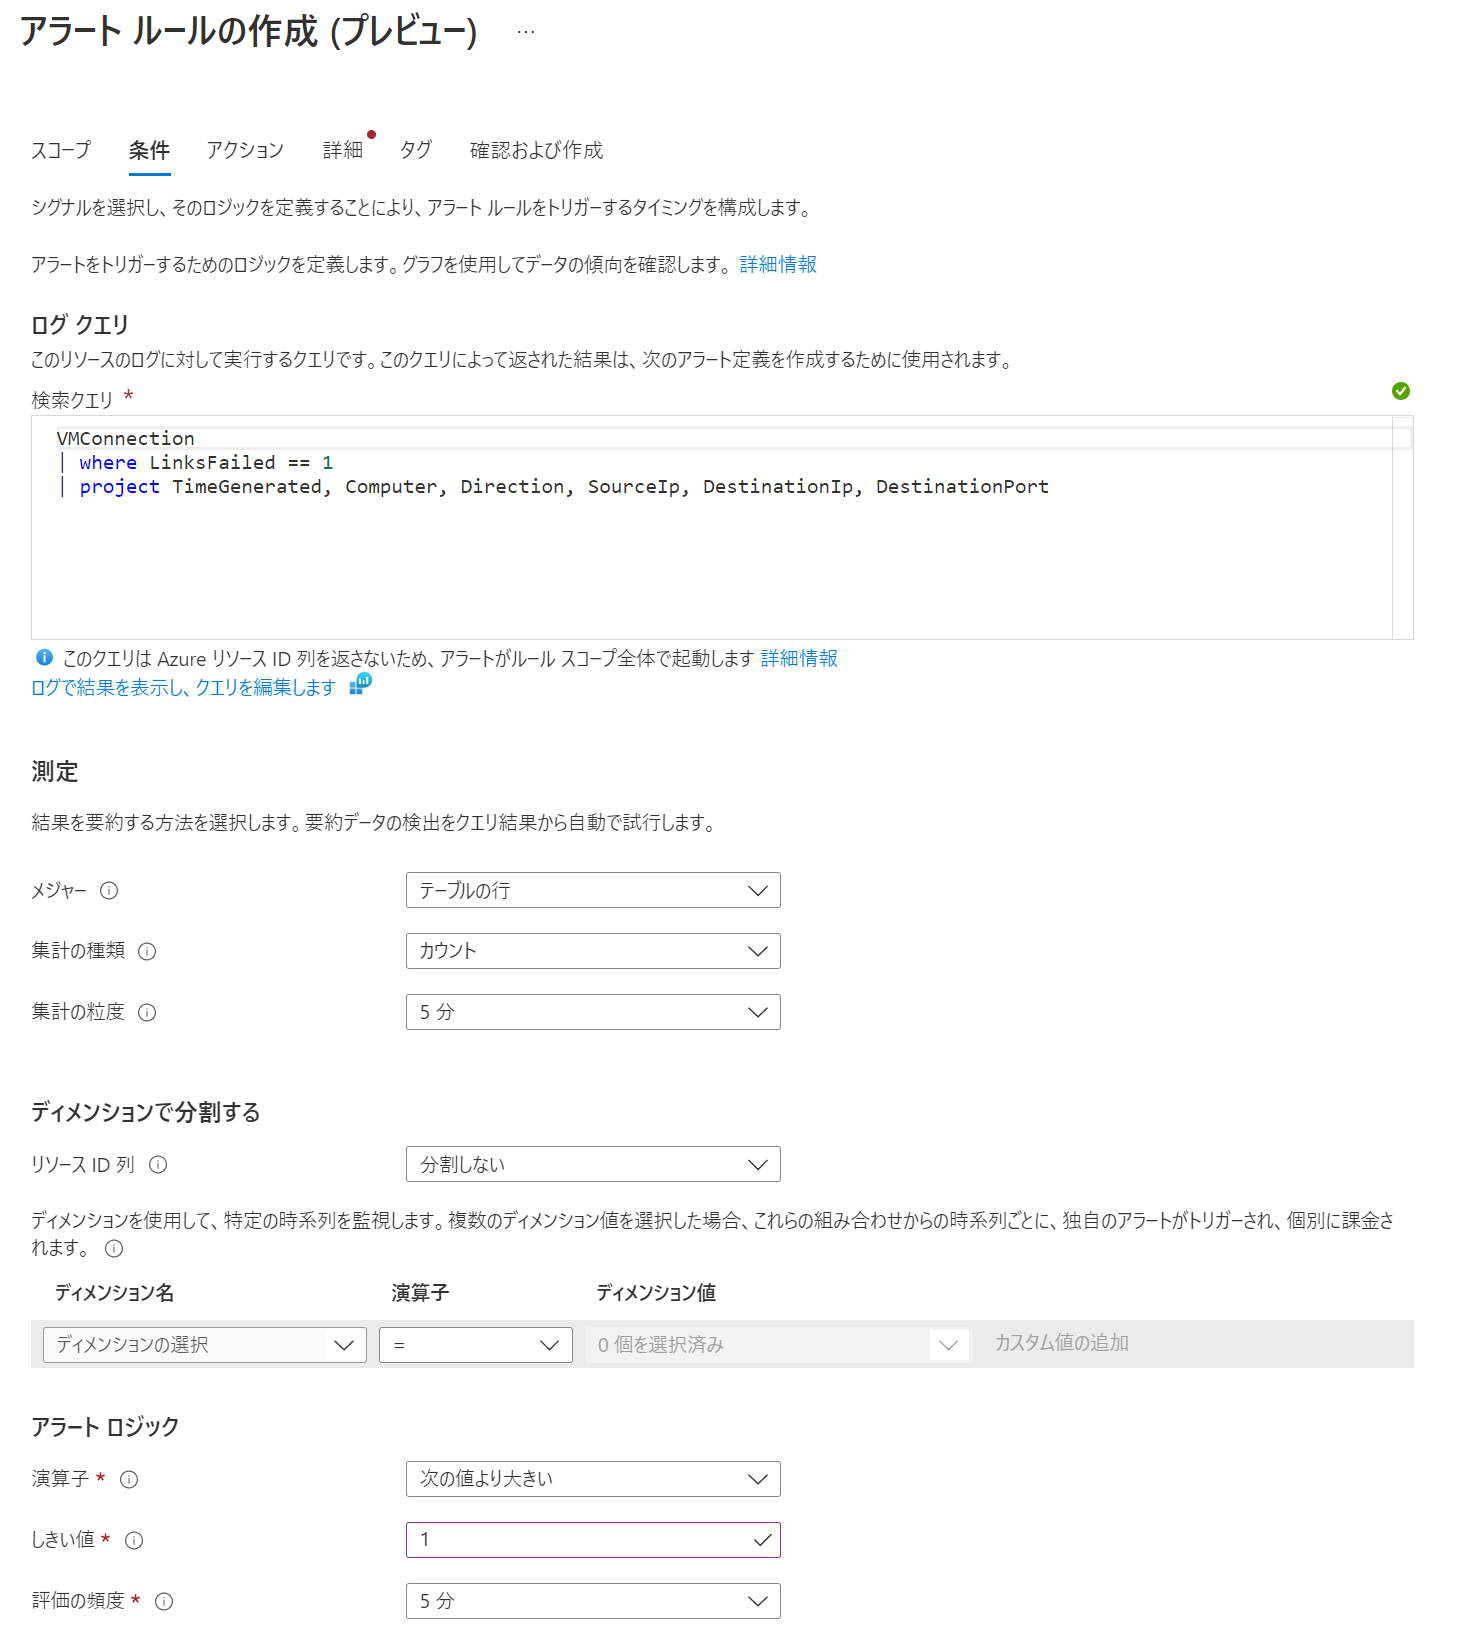
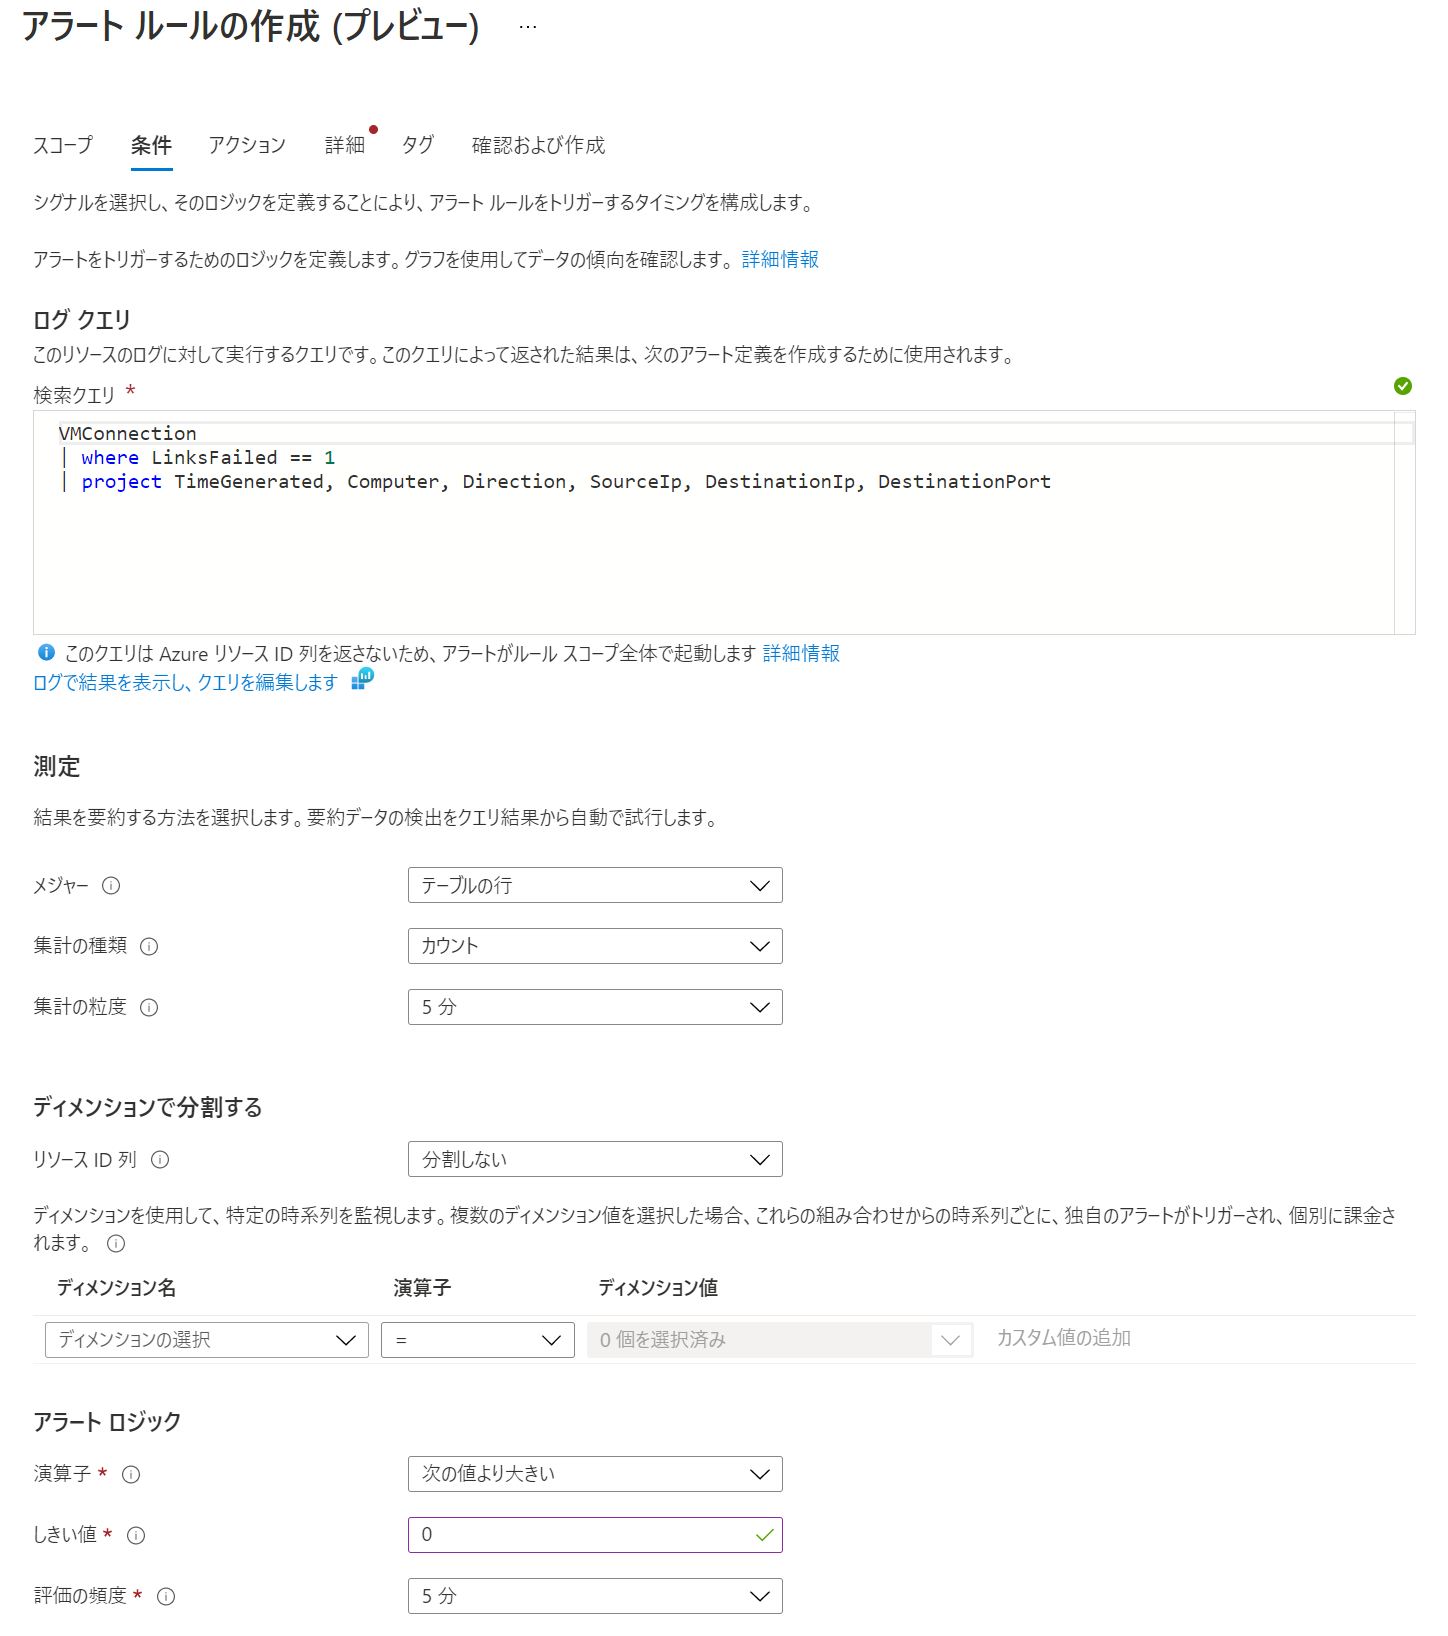
手順書の更新（Exercise 5：メール受信、アラート確認）

diff --git a/HOL-step-by-step-Network-Hands-on-Lab.md b/HOL-step-by-step-Network-Hands-on-Lab.md
@@ -14,7 +14,7 @@ December 2021
 
   - [Task 3： Virtual Network Manager の作成](#task-3-virtual-network-manager-の作成)
 
-  - [Task 4：接続構成とセキュリティ管理規則の作成](#task-4-接続構成とセキュリティ管理規則の作成)
+  - [Task 4： 接続構成とセキュリティ管理規則の作成と展開](#task-4-接続構成とセキュリティ管理規則の作成と展開)
 
   - [Task 5： ネイティブ Windows クライアントを使用した仮想マシンへの接続](#task-5-ネイティブ-windows-クライアントを使用した仮想マシンへの接続)
 
@@ -692,7 +692,7 @@ December 2021
 
 - PowerShell を起動
 
-- Test-Connection コマンドレットでポートの開閉を確認
+- Test-NetConnection コマンドレットでポートの開閉を確認
 
   ```
   Test-NetConnection -ComputerName <storage account namae>.file.core.windows.net -Port 445
@@ -727,7 +727,11 @@ December 2021
   $vnet | Set-AzVirtualNetwork
   ```
 
-- Test-Connection コマンドレットでポートの開閉を確認
+- Test-NetConnection コマンドレットでポートの開閉を確認
+
+  ```
+  Test-NetConnection -ComputerName <storage account namae>.file.core.windows.net -Port 445
+  ```
 
   <img src="images/network-security-group-12.png" />
 
@@ -1306,7 +1310,7 @@ TLS 検査の設定
 
       **演算子**： 次の値より大きい
 
-      **しきい値**： 1
+      **しきい値**： 0
 
       **評価の粒度**： ５分
 
@@ -1373,3 +1377,15 @@ TLS 検査の設定
   <img src="images/azure-monitor-for-vm-09.png" />
 
   ※Azure Monitor for VM で取得できるログ、メトリックを利用して様々な仮想マシンの状態を監視してアラートを作成可
+
+- Azure Monitor のアラート画面で発生したアラートを確認
+
+  エラーをクリックして詳細を表示
+
+  <img src="images/azure-monitor-for-vm-10.png" />
+
+- 該当エラーをチェックし **状態を変更** からアラートの状態を変更
+
+  <img src="images/azure-monitor-for-vm-11.png" />
+
+  <img src="images/azure-monitor-for-vm-12.png" />
